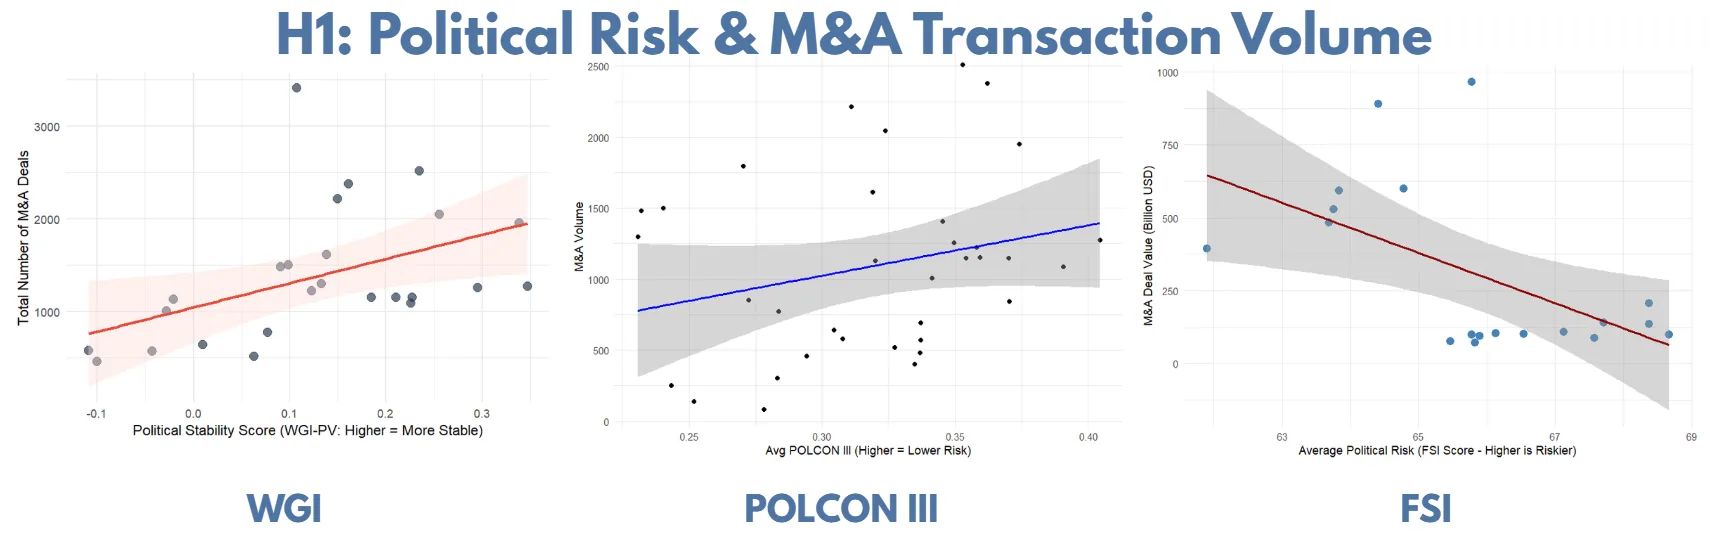
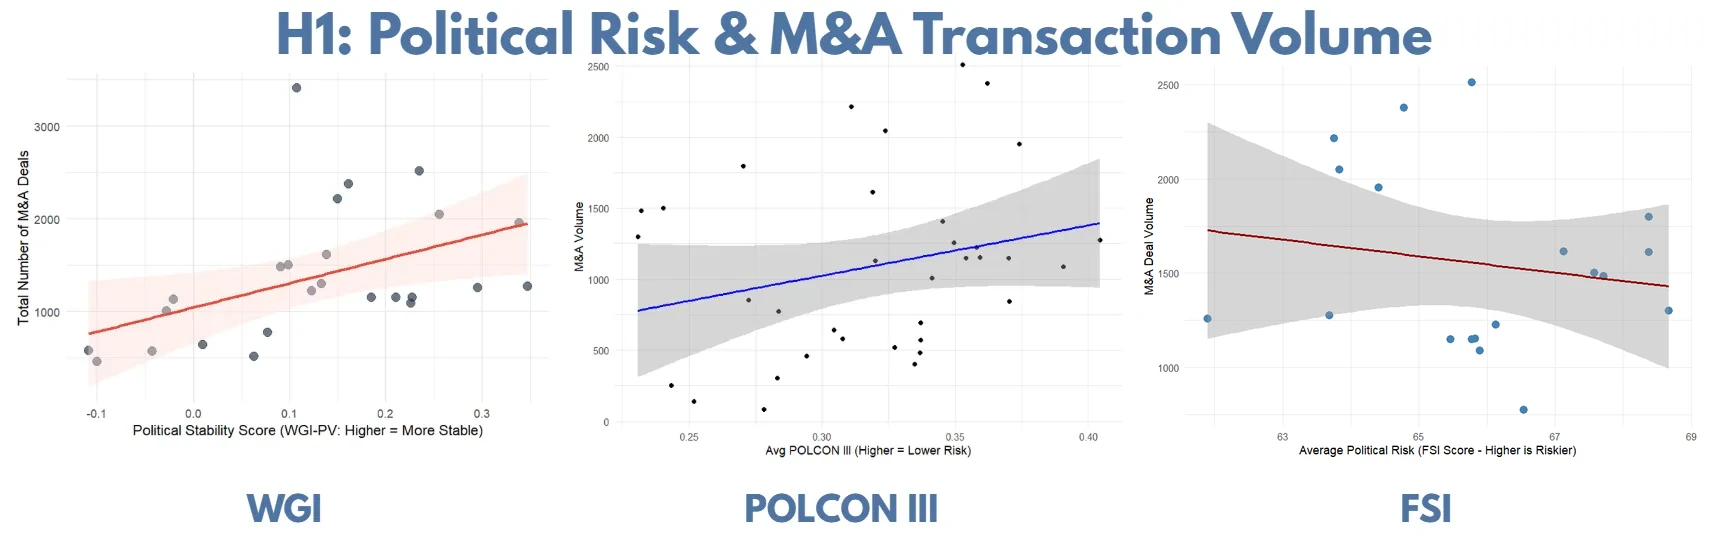
Risky Deals : graphique FSI de H1 en nombre de transactions, « analyse de panel » retirée
- H1_results.webp : le panneau FSI montre désormais le nombre de
  transactions (r = −0,168), cohérent avec la variable testée et les
  deux autres panneaux ; légendes FR, EN, ZH mises à jour
- Compétence « Statistiques & Méthodes Quantitatives » : « analyse de
  panel » remplacée par « corrélations »

Claude-Session: https://claude.ai/code/session_01SS8x63u1iaaRjQhPhBSC6n

diff --git a/portfolio-data.html b/portfolio-data.html
@@ -989,9 +989,9 @@
                  alt="H1: scatter plots of WGI-PV, POLCON III and FSI against M&amp;A volume, with regression lines and 95% confidence intervals" loading="lazy">
           </a>
           <div class="pf-img-caption">
-            <div data-lang-show="fr"><strong>H1 – Volume de transactions :</strong> nuages de points annuels, droite de régression et intervalle de confiance à 95 %. <strong>WGI-PV</strong> : seule relation significative (r = 0,545, p = 0,007, n = 23), plus la région est perçue comme stable, plus les transactions sont nombreuses ; la stabilité explique environ 30 % des variations annuelles (R² = 0,297). <strong>POLCON III</strong> : pente positive dans le sens attendu mais non significative (r = 0,251, p = 0,145, n = 35), l'intervalle de confiance très large reste compatible avec une absence d'effet. <strong>FSI</strong> : le graphique montre la valeur des transactions (milliards USD), qui recule quand la fragilité augmente (r = −0,549) ; sur le nombre de transactions, la relation est faible et non significative (r = −0,168, p = 0,491). Hypothèse partiellement confirmée.</div>
-            <div data-lang-show="en"><strong>H1 – Deal Volume:</strong> annual scatter plots, regression line and 95% confidence interval. <strong>WGI-PV</strong>: the only significant relationship (r = 0.545, p = 0.007, n = 23), the more stable the region is perceived to be, the more deals take place; stability explains about 30% of year-to-year variation (R² = 0.297). <strong>POLCON III</strong>: positive slope in the expected direction but not significant (r = 0.251, p = 0.145, n = 35), the very wide confidence band is consistent with no effect. <strong>FSI</strong>: the chart shows deal value (USD billion), which falls as fragility rises (r = −0.549); on the number of deals, the relationship is weak and not significant (r = −0.168, p = 0.491). Hypothesis partially confirmed.</div>
-            <div data-lang-show="zh"><strong>H1 – 交易量：</strong>年度散佈圖，附迴歸線與 95% 信賴區間。<strong>WGI-PV</strong>：唯一顯著的關係（r = 0.545，p = 0.007，n = 23），區域被認為越穩定，交易越多；穩定度約可解釋 30% 的年度變異（R² = 0.297）。<strong>POLCON III</strong>：斜率方向符合預期但不顯著（r = 0.251，p = 0.145，n = 35），信賴區間很寬，無法排除沒有效果。<strong>FSI</strong>：圖中為交易金額（十億美元），脆弱度越高金額越低（r = −0.549）；若以交易數量計算，關係微弱且不顯著（r = −0.168，p = 0.491）。假設部分成立。</div>
+            <div data-lang-show="fr"><strong>H1 – Volume de transactions :</strong> nuages de points annuels, droite de régression et intervalle de confiance à 95 %. <strong>WGI-PV</strong> : seule relation significative (r = 0,545, p = 0,007, n = 23), plus la région est perçue comme stable, plus les transactions sont nombreuses ; la stabilité explique environ 30 % des variations annuelles (R² = 0,297). <strong>POLCON III</strong> : pente positive dans le sens attendu mais non significative (r = 0,251, p = 0,145, n = 35), l'intervalle de confiance très large reste compatible avec une absence d'effet. <strong>FSI</strong> : légère pente négative, plus l'État est fragile, moins les transactions sont nombreuses, mais la relation est faible et non significative (r = −0,168, p = 0,491, n = 19), l'intervalle de confiance englobant une absence d'effet. Hypothèse partiellement confirmée.</div>
+            <div data-lang-show="en"><strong>H1 – Deal Volume:</strong> annual scatter plots, regression line and 95% confidence interval. <strong>WGI-PV</strong>: the only significant relationship (r = 0.545, p = 0.007, n = 23), the more stable the region is perceived to be, the more deals take place; stability explains about 30% of year-to-year variation (R² = 0.297). <strong>POLCON III</strong>: positive slope in the expected direction but not significant (r = 0.251, p = 0.145, n = 35), the very wide confidence band is consistent with no effect. <strong>FSI</strong>: slight negative slope, the more fragile the state, the fewer the deals, but the relationship is weak and not significant (r = −0.168, p = 0.491, n = 19), with a confidence band consistent with no effect. Hypothesis partially confirmed.</div>
+            <div data-lang-show="zh"><strong>H1 – 交易量：</strong>年度散佈圖，附迴歸線與 95% 信賴區間。<strong>WGI-PV</strong>：唯一顯著的關係（r = 0.545，p = 0.007，n = 23），區域被認為越穩定，交易越多；穩定度約可解釋 30% 的年度變異（R² = 0.297）。<strong>POLCON III</strong>：斜率方向符合預期但不顯著（r = 0.251，p = 0.145，n = 35），信賴區間很寬，無法排除沒有效果。<strong>FSI</strong>：斜率略為負向，國家越脆弱交易越少，但關係微弱且不顯著（r = −0.168，p = 0.491，n = 19），信賴區間無法排除沒有效果。假設部分成立。</div>
           </div>
         </div>
 

diff --git a/portfolio-finance.html b/portfolio-finance.html
@@ -702,9 +702,9 @@
                  alt="H1: scatter plots of WGI-PV, POLCON III and FSI against M&amp;A volume, with regression lines and 95% confidence intervals" loading="lazy">
           </a>
           <div class="pf-img-caption">
-            <div data-lang-show="fr"><strong>H1 – Volume de transactions :</strong> nuages de points annuels, droite de régression et intervalle de confiance à 95 %. <strong>WGI-PV</strong> : seule relation significative (r = 0,545, p = 0,007, n = 23), plus la région est perçue comme stable, plus les transactions sont nombreuses ; la stabilité explique environ 30 % des variations annuelles (R² = 0,297). <strong>POLCON III</strong> : pente positive dans le sens attendu mais non significative (r = 0,251, p = 0,145, n = 35), l'intervalle de confiance très large reste compatible avec une absence d'effet. <strong>FSI</strong> : le graphique montre la valeur des transactions (milliards USD), qui recule quand la fragilité augmente (r = −0,549) ; sur le nombre de transactions, la relation est faible et non significative (r = −0,168, p = 0,491). Hypothèse partiellement confirmée.</div>
-            <div data-lang-show="en"><strong>H1 – Deal Volume:</strong> annual scatter plots, regression line and 95% confidence interval. <strong>WGI-PV</strong>: the only significant relationship (r = 0.545, p = 0.007, n = 23), the more stable the region is perceived to be, the more deals take place; stability explains about 30% of year-to-year variation (R² = 0.297). <strong>POLCON III</strong>: positive slope in the expected direction but not significant (r = 0.251, p = 0.145, n = 35), the very wide confidence band is consistent with no effect. <strong>FSI</strong>: the chart shows deal value (USD billion), which falls as fragility rises (r = −0.549); on the number of deals, the relationship is weak and not significant (r = −0.168, p = 0.491). Hypothesis partially confirmed.</div>
-            <div data-lang-show="zh"><strong>H1 – 交易量：</strong>年度散佈圖，附迴歸線與 95% 信賴區間。<strong>WGI-PV</strong>：唯一顯著的關係（r = 0.545，p = 0.007，n = 23），區域被認為越穩定，交易越多；穩定度約可解釋 30% 的年度變異（R² = 0.297）。<strong>POLCON III</strong>：斜率方向符合預期但不顯著（r = 0.251，p = 0.145，n = 35），信賴區間很寬，無法排除沒有效果。<strong>FSI</strong>：圖中為交易金額（十億美元），脆弱度越高金額越低（r = −0.549）；若以交易數量計算，關係微弱且不顯著（r = −0.168，p = 0.491）。假設部分成立。</div>
+            <div data-lang-show="fr"><strong>H1 – Volume de transactions :</strong> nuages de points annuels, droite de régression et intervalle de confiance à 95 %. <strong>WGI-PV</strong> : seule relation significative (r = 0,545, p = 0,007, n = 23), plus la région est perçue comme stable, plus les transactions sont nombreuses ; la stabilité explique environ 30 % des variations annuelles (R² = 0,297). <strong>POLCON III</strong> : pente positive dans le sens attendu mais non significative (r = 0,251, p = 0,145, n = 35), l'intervalle de confiance très large reste compatible avec une absence d'effet. <strong>FSI</strong> : légère pente négative, plus l'État est fragile, moins les transactions sont nombreuses, mais la relation est faible et non significative (r = −0,168, p = 0,491, n = 19), l'intervalle de confiance englobant une absence d'effet. Hypothèse partiellement confirmée.</div>
+            <div data-lang-show="en"><strong>H1 – Deal Volume:</strong> annual scatter plots, regression line and 95% confidence interval. <strong>WGI-PV</strong>: the only significant relationship (r = 0.545, p = 0.007, n = 23), the more stable the region is perceived to be, the more deals take place; stability explains about 30% of year-to-year variation (R² = 0.297). <strong>POLCON III</strong>: positive slope in the expected direction but not significant (r = 0.251, p = 0.145, n = 35), the very wide confidence band is consistent with no effect. <strong>FSI</strong>: slight negative slope, the more fragile the state, the fewer the deals, but the relationship is weak and not significant (r = −0.168, p = 0.491, n = 19), with a confidence band consistent with no effect. Hypothesis partially confirmed.</div>
+            <div data-lang-show="zh"><strong>H1 – 交易量：</strong>年度散佈圖，附迴歸線與 95% 信賴區間。<strong>WGI-PV</strong>：唯一顯著的關係（r = 0.545，p = 0.007，n = 23），區域被認為越穩定，交易越多；穩定度約可解釋 30% 的年度變異（R² = 0.297）。<strong>POLCON III</strong>：斜率方向符合預期但不顯著（r = 0.251，p = 0.145，n = 35），信賴區間很寬，無法排除沒有效果。<strong>FSI</strong>：斜率略為負向，國家越脆弱交易越少，但關係微弱且不顯著（r = −0.168，p = 0.491，n = 19），信賴區間無法排除沒有效果。假設部分成立。</div>
           </div>
         </div>
 

diff --git a/main.js b/main.js
@@ -3489,7 +3489,7 @@
     },
     "data-statistics": {
       title: "Statistiques & Méthodes Quantitatives",
-      text: "Maîtrise des méthodes quantitatives – régression OLS et Logit, analyse de panel, tests d'hypothèses, statistiques descriptives et inférentielles – appliquées à la recherche académique et aux études de marché.",
+      text: "Maîtrise des méthodes quantitatives – régression OLS et Logit, corrélations, tests d'hypothèses, statistiques descriptives et inférentielles – appliquées à la recherche académique et aux études de marché.",
       byPage: {
         finance:   { text: "Régressions OLS et Logit sur données LSEG/Refinitiv (2000 – 2024) pour tester l'impact du risque politique sur les opérations M&A." },
         data:      { text: "Méthodes quantitatives appliquées : régressions multivariées, analyse de corrélation et tests d'hypothèses pour la recherche et l'analyse de marché." },
@@ -3497,7 +3497,7 @@
       },
       en: {
         title: "Statistics & Quantitative Methods",
-        text: "Proficient in quantitative methods – OLS and logit regression, panel data analysis, hypothesis testing, descriptive and inferential statistics – applied to academic research and market studies.",
+        text: "Proficient in quantitative methods – OLS and logit regression, correlation analysis, hypothesis testing, descriptive and inferential statistics – applied to academic research and market studies.",
         byPage: {
           finance:   { text: "OLS and logit regressions on LSEG/Refinitiv data (2000 – 2024) to test the impact of political risk on M&A transactions." },
           data:      { text: "Applied quantitative methods: multivariate regressions, correlation analysis and hypothesis testing for research and market analysis." },
